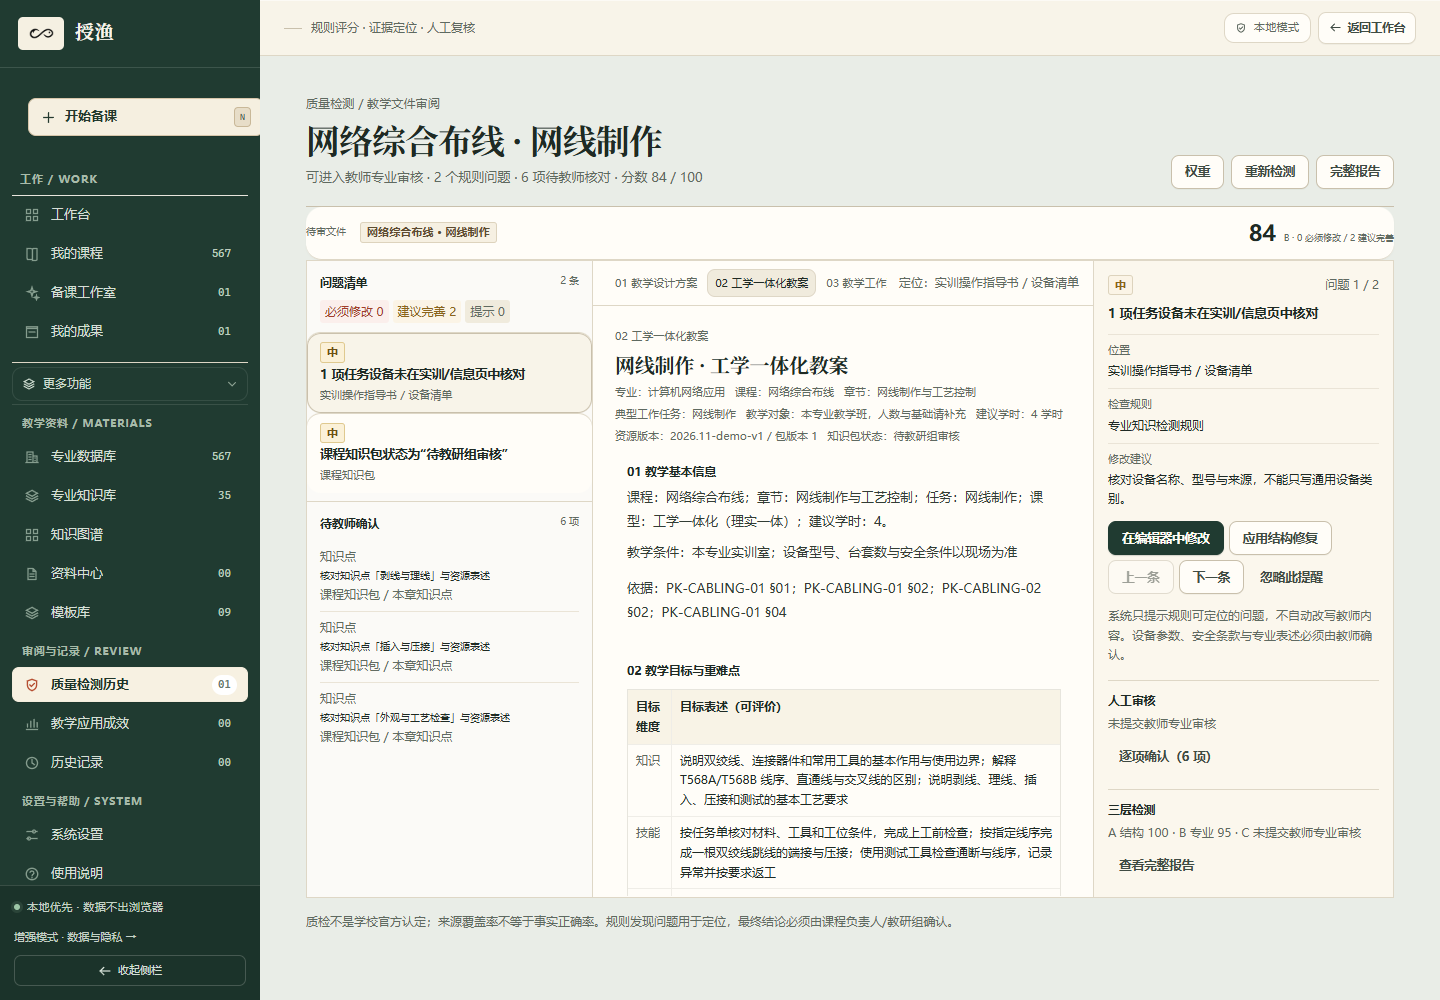
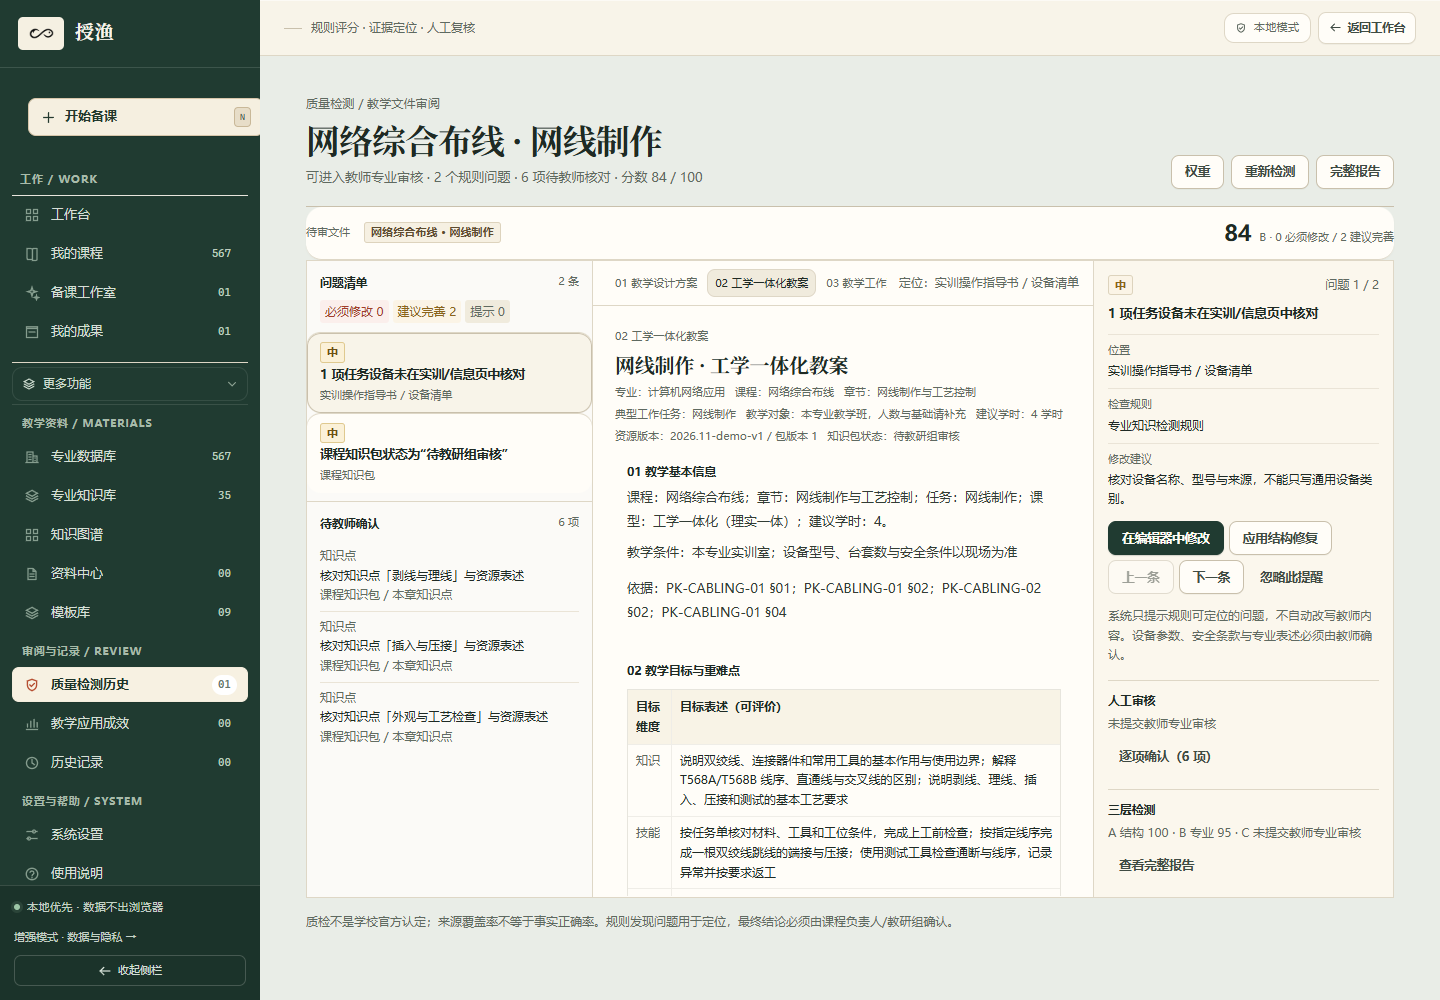
test: verify backup and rendered design quality

diff --git a/assets/shouyu-world.css b/assets/shouyu-world.css
@@ -1105,7 +1105,8 @@ textarea:focus {
 }
 
 .studio-doc-tree {
-  border-right-color: var(--w-line);
+  border: 0;
+  border-radius: 0;
   background: #f8f3e6;
 }
 
@@ -1176,8 +1177,9 @@ textarea:focus {
 }
 
 .studio-context-panel {
-  border-left-color: var(--w-line);
-  background: var(--w-paper);
+  border: 0;
+  border-radius: 0;
+  background: #fbf7ed;
 }
 
 .studio-panel-tabs button {
@@ -1196,9 +1198,71 @@ textarea:focus {
 }
 
 .studio-project .studio-quality-layers > div {
-  border-color: var(--w-line);
-  border-radius: 5px;
-  background: #fbf7ed;
+  padding: 7px 0 0;
+  border: 0;
+  border-top: 1px solid var(--w-line);
+  border-radius: 0;
+  background: transparent;
+  font-size: 11px;
+}
+
+.studio-project .studio-quality-layers .is-pending,
+.studio-project .studio-quality-layers .is-approved {
+  background: transparent;
+}
+
+.studio-project .studio-quality-layers .is-pending b {
+  color: var(--w-warning);
+}
+
+.studio-project .studio-quality-layers .is-approved b {
+  color: var(--w-approve);
+}
+
+.studio-project .studio-quality-layers span,
+.studio-project-panel-head span {
+  font-size: 11px;
+}
+
+.studio-project .studio-quality-layers small {
+  font-size: 12px;
+}
+
+.studio-issue-detail {
+  margin-top: 10px;
+  padding: 10px 0 0;
+  border: 0;
+  border-top: 1px solid var(--w-line);
+  border-radius: 0;
+  background: transparent;
+}
+
+.studio-issue-detail > div:first-child,
+.studio-issue-detail > div:first-child small,
+.studio-issue-detail > small {
+  font-size: 11px;
+  line-height: 1.55;
+}
+
+.studio-issue-detail > strong {
+  font-size: 12px;
+  line-height: 1.55;
+}
+
+.studio-issue-detail p {
+  font-size: 12px;
+  line-height: 1.6;
+}
+
+.studio-issue-detail-actions .btn {
+  min-height: 30px;
+  padding: 0 9px;
+  font-size: 11px;
+}
+
+.studio-step.is-current > span {
+  background: var(--w-pine);
+  color: #fffdf5;
 }
 
 .studio-project .studio-quality-layers .is-pending {
@@ -1496,6 +1560,30 @@ textarea:focus {
 
 .quality-issue-facts dd {
   font-size: 12px;
+}
+
+.quality-strip-label,
+.quality-pane-head > span,
+.quality-strip-score > span {
+  font-size: 11px;
+  line-height: 1.5;
+}
+
+.quality-review-list strong,
+.quality-review-list span,
+.quality-review-list small {
+  font-size: 12px;
+  line-height: 1.55;
+}
+
+.doc-check span {
+  font-size: 12px;
+  line-height: 1.6;
+}
+
+.doc-lines-label {
+  font-size: 11px;
+  letter-spacing: 0.04em;
 }
 
 .quality-document .doc-paragraph,

diff --git a/docs/ai/TEST_REPORT.md b/docs/ai/TEST_REPORT.md
@@ -119,8 +119,30 @@ FINDINGS 0
 | 质量检测（空状态） | 0 findings |
 | 专业数据库 | 0 findings |
 
-检测覆盖：字号下限、对比度、装饰性反模式、侧色条、嵌套卡片。  
-**未验证**：带真实项目的 `#/studio`、带质检报告的 `#/quality` 全量机械检测（需要预置本机项目数据；已用 Playwright 检查可见文本、面板溢出和手动流程，但不等同于 detector 全量扫描）。
+检测覆盖：字号下限、对比度、装饰性反模式、侧色条、嵌套卡片。
+
+### 带真实项目的 CDP 检测
+
+使用 Playwright 启动带 `--remote-debugging-port` 的 Edge，生成一个真实备课项目，再通过 `detect --cdp` 扫描运行中的页面：
+
+```text
+#/studio  with generated project
+EXIT 0
+primary findings 0
+advisory 1（正文 em-dash 饱和，advisory 不改变退出码）
+
+#/quality with generated report
+EXIT 0
+findings 0
+```
+
+文件：
+
+- `tests/studio-detect.e2e.mjs`
+- `资料/impeccable-studio-cdp.json`
+- `资料/impeccable-quality-cdp.json`
+
+**未验证**：极长真实文档（数万字）下的 detector 全量扫描；当前使用课程知识包生成的正常长度项目。
 
 ## 6. 交互手测
 
@@ -139,16 +161,37 @@ FINDINGS 0
 | 备课生成、编辑器、质检、导出入口 | E2E 覆盖通过 |
 | 控制台错误 | 0（本轮检查页面） |
 
-## 7. 未验证/风险
+## 7. 完整备份端到端
 
-1. 完整备份文件的浏览器下载、导入、覆盖恢复未做端到端自动化；授课记录的 store 导入/导出已有单元测试，`exportBackup` 代码已纳入但未实际下载验证。
-2. 真实教师长时间使用、真实课堂记录量下的性能未测试。
-3. 旧 CSS 五层叠加仍有历史死规则；未做物理删除。
-4. 新增课堂记录使用 localStorage；数据量很大时可能触及浏览器配额，当前没有容量提示。
-5. `#/studio` 项目工作区未运行 Impeccable 全量 rendered detector；只做了 Playwright 可见性/溢出/字号抽查。
-6. 移动端只验证无溢出和主要入口；复杂质量审阅三栏在手机上的完整操作未逐项手测。
+新增 `tests/backup.e2e.mjs`，真实执行：
 
-## 8. 结论
+1. 通过 UI 新建一条授课记录；
+2. 导出完整备份，读取 JSON，确认 `teaching.records` 存在；
+3. 删除本机数据，确认记录消失；
+4. 导入同一备份并确认恢复，记录重新出现。
+
+结果：
+
+```text
+{"ok":true,"backupBytes":2543,"teachingRecords":1,"errors":[]}
+```
+
+命令：
+
+```bash
+$env:PLAYWRIGHT_MODULE='<playwright/index.js>'
+node tests/backup.e2e.mjs
+```
+
+## 8. 未验证/风险
+
+1. 真实教师长时间使用、真实课堂记录量下的性能未测试。
+2. 旧 CSS 五层叠加仍有历史死规则；未做物理删除。
+3. 新增课堂记录使用 localStorage；数据量很大时可能触及浏览器配额，当前没有容量提示。
+4. 移动端只验证无溢出和主要入口；复杂质量审阅三栏在手机上的完整操作未逐项手测。
+5. 极长真实文档下的阅读与 detector 扫描未测试。
+
+## 9. 结论
 
 可自动化的核心回归全部通过；没有发现本轮改造引入的控制台错误、横向溢出或测试回归。  
 交付前仍需补：完整备份端到端、真实项目页 detector、真实教师使用测试。

diff --git a/README.md b/README.md
@@ -335,6 +335,12 @@ npm --prefix tests install
 $env:PLAYWRIGHT_CHANNEL='msedge'
 npm --prefix tests run test:files
 node tests/e2e.smoke.mjs
+
+# 完整备份端到端（需要 Playwright 与本机静态服务器）
+node tests/backup.e2e.mjs
+
+# 真实 studio/quality 页面的 Impeccable CDP 检测
+node tests/studio-detect.e2e.mjs
 ```
 
 实际结果见 [docs/测试报告.md](docs/测试报告.md)。包含：
@@ -342,6 +348,8 @@ node tests/e2e.smoke.mjs
 - 99 个单元测试（隐私 33、知识包 8、引擎 7、AI 合并 7、安全代理 Mock 8、专业数据库 9、课程知识包/资源引擎/三层质检/来源完整性/演示标记 17、应用成效 5、授课记录 5）；
 - 18 个文件解析用例（TXT / MD / CSV / JSON / DOCX / PDF / XLSX / PPTX / 分块 / BOM / 进度 / 无上传）；
 - 75 项浏览器 E2E（路由、五场景、品牌标识 / favicon、首页工作台、四个核心导航、我的课程与课程工作空间、课程授课记录空状态、六步备课、统一项目工作区、侧栏折叠、资料分栏、模板标识、专业数据库四级浏览 / 检索 / 课程资源、10 类资源、4 门知识包、质检三层/10 维、质量中心、成果中心、知识图谱、演示一键生成与状态、应用成效未采集/录入/图表、完整备份清空后恢复、编辑器、DOCX / XLSX、文件解析、历史、移动端、控制台）；
+- 完整备份端到端：新建授课记录 → 导出 JSON → 清空本机数据 → 导入恢复，记录恢复成功；
+- 真实 studio/quality 页面 Impeccable CDP 检测：0 primary findings；
 - AI 体验通道真实流式生成、对话、截断提示与失败回退；新增单次自动重试（仅未收到文本时）；
 - DOCX / XLSX 用 `python-docx` / `openpyxl` 独立打开验证；资源包 DOCX 含封面/目录/签字区（394 段、24 表）。
 

diff --git a/docs/ai/TASK_PROGRESS.md b/docs/ai/TASK_PROGRESS.md
@@ -27,13 +27,19 @@
 
 ## 进行中
 
-- 无。本批实现与可执行验证已完成；等待提交/发布与最终验收。
+- 第二批已通过完整验证；准备提交、发布并复核公开站点。
+
+## 本轮新增验证（第二批）
+
+- [x] 完整备份端到端：`tests/backup.e2e.mjs`，新建记录 → 导出 JSON → 清空本机数据 → 导入恢复，结果 `{"ok":true,"backupBytes":2543,"teachingRecords":1,"errors":[]}`；复跑仍通过。
+- [x] `#/studio` 带真实项目的 CDP detector：exit 0，0 primary findings（1 条 em-dash advisory）。
+- [x] `#/quality` 带真实报告：exit 0，0 findings；复跑仍通过。
+- [x] 修复质量页 10px/9px 功能文字、7.5px 反思标签、低对比步骤序号、文档目录/上下文栏嵌套卡片。
+- [x] 修复授课记录任务与章节关联（以任务 chapterId 为准）。
 
 ## 待完成
 
-- [ ] 质量审阅页在真实长文档下的逐项阅读检查（当前为空状态检测）。
-- [ ] `#/studio` 带项目的 Impeccable rendered detector 全量扫描。
-- [ ] 完整备份的浏览器下载/导入/覆盖恢复端到端测试。
+- [ ] 极长真实文档下的阅读检查。
 - [ ] 首页“继续备课”真实项目的视觉层级复核（本批已有项目截图）。
 - [ ] 旧 CSS 五层叠加的物理清理（仅记录，未删除）。
 - [ ] 真实教师长时间使用测试。

diff --git a/docs/ai/CHANGELOG.md b/docs/ai/CHANGELOG.md
@@ -31,6 +31,27 @@
 
 见 `TEST_REPORT.md`。关键结果：单元 99、E2E 75、文件 18、Impeccable 变更检测 0、五个主要渲染页 0 发现、7 档宽度无横向溢出。
 
+## 2026-11-19 · 第二批：验证闭环与真实项目检测
+
+### 新增
+
+- `tests/backup.e2e.mjs`：完整备份下载 / 清空 / 导入恢复端到端。
+- `tests/studio-detect.e2e.mjs`：通过 CDP 扫描运行中的真实 `#/studio` 和 `#/quality` 页面。
+- `npm run test:backup`、`npm run test:design-qa`。
+
+### 修复
+
+- 质量页：10px/9px 功能文字、7.5px 反思标签、对比度不足的步骤序号。
+- 工作室：文档目录/上下文面板嵌套卡片与 1px 侧边分隔、问题详情嵌套卡片。
+- 授课记录：章节按任务 `chapterId` 归档，避免章节与任务错配。
+
+### 验证
+
+- 完整备份：`ok: true`，备份 2543 bytes，授课记录恢复成功。
+- studio detector：exit 0，0 primary findings。
+- quality detector：exit 0，0 findings。
+- 单元 99 / E2E 75 / 文件 18。
+
 ### 未完成
 
 - 质量页/编辑器新世界的逐页微调。
